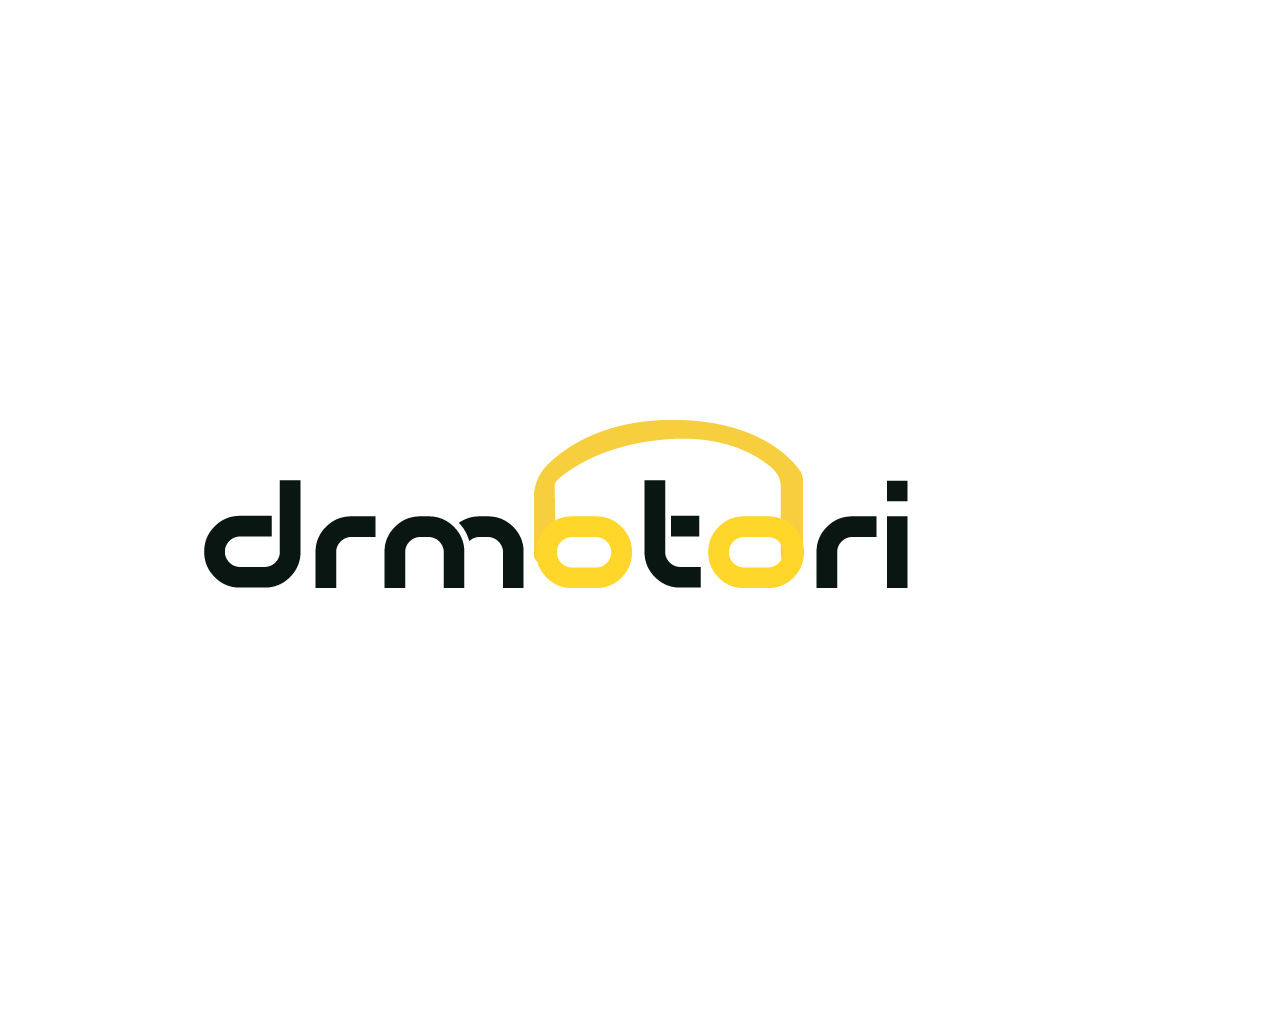
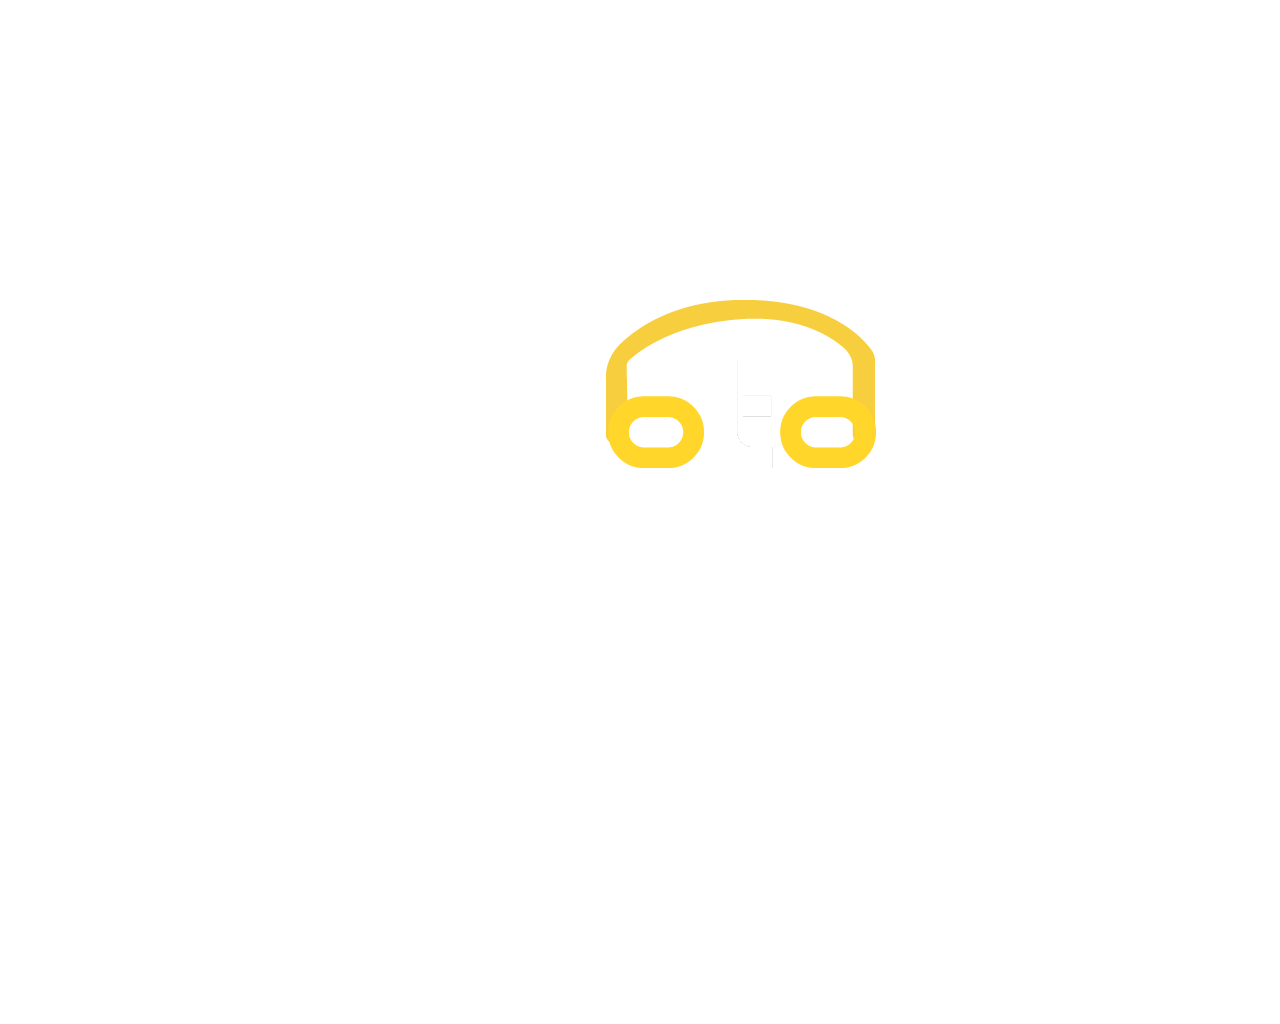
changed filter

Changed region(s): [[0.1562, 0.2812, 0.7188, 0.5938]]

diff --git a/src/static_files/css/shop.css b/src/static_files/css/shop.css
@@ -1396,7 +1396,7 @@ i.filter1
 }
 @media only screen and (min-width:641px )
 {
-	.filter1
+	i.filter1,div.close4,i.filter1-popup,div.filter-header-logo
 	{
 		display: none;
 	}
@@ -1955,7 +1955,9 @@ img.Drmotori-logo
 .motori-logo2
 {	
 	position: absolute;
-	margin-top: 2vw;
+	margin-top: -8vw;
+	margin-left: -8vw;
+	height: 38vw;
 }
 @media only screen and (max-width : 640px)
 {
@@ -2023,4 +2025,5 @@ img.Drmotori-logo
 	margin-left: 36vw;
 	font-size: 7vw;
 }
+.right-party
 }

diff --git a/src/Templates/shop.html b/src/Templates/shop.html
@@ -180,6 +180,13 @@
 			<div class="filter1-header"><i class="fas fa-filter filter1-popup"></i>
 			</div>
 			<div class="filter-header-logo">فیلترها</div>
+			<div class="right-part"></div>
+			<div class="right-part-text">نوع موتور <br>برند<br>
+			محدوده قیمت <br> 
+			نوع قطعه <br>
+			لوازم جانبی <br>
+			کلاه کاسکت
+			</div>
 		</div>
 		
 	</div>
